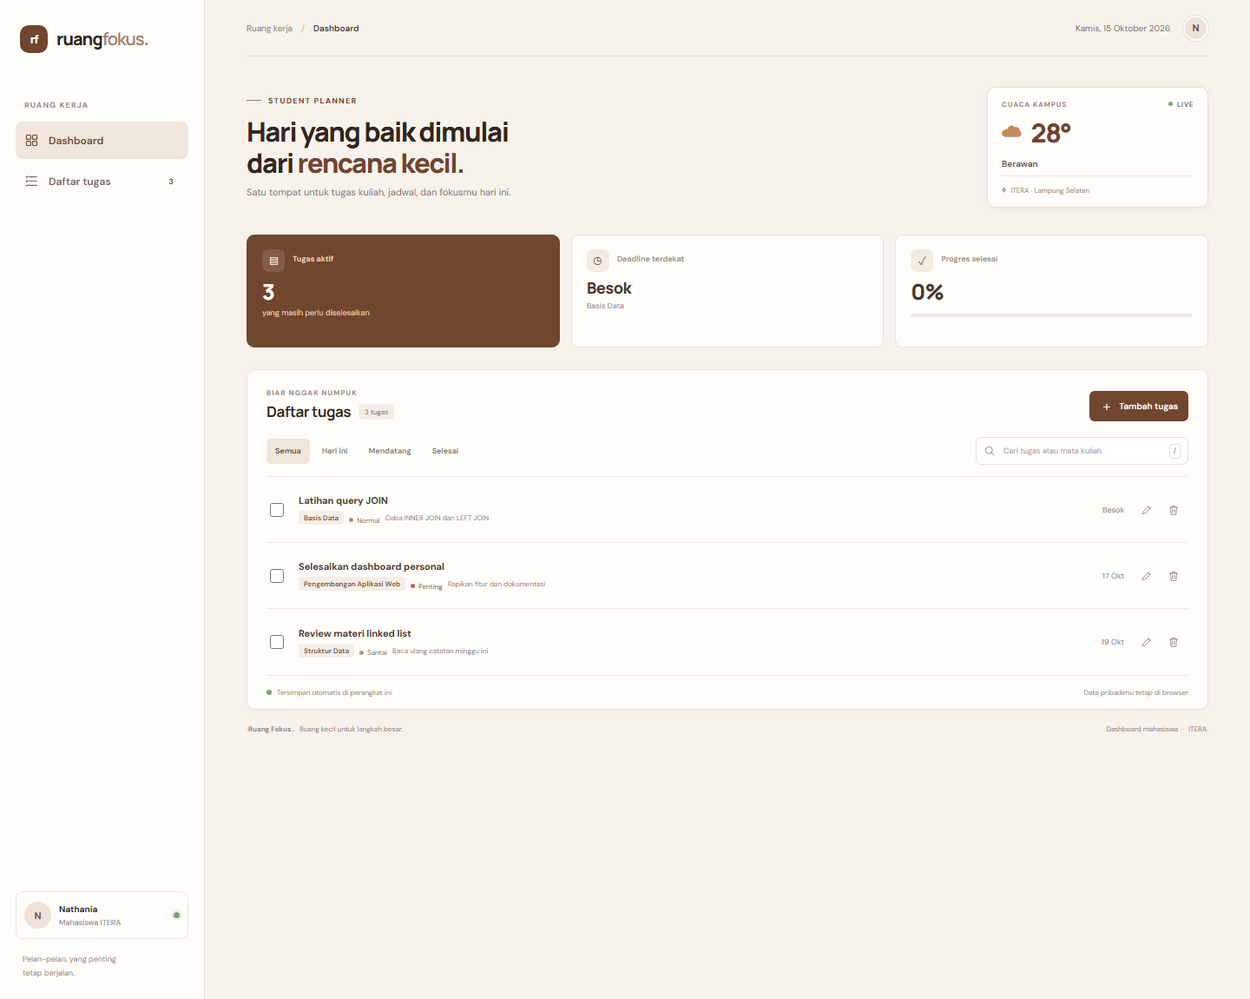
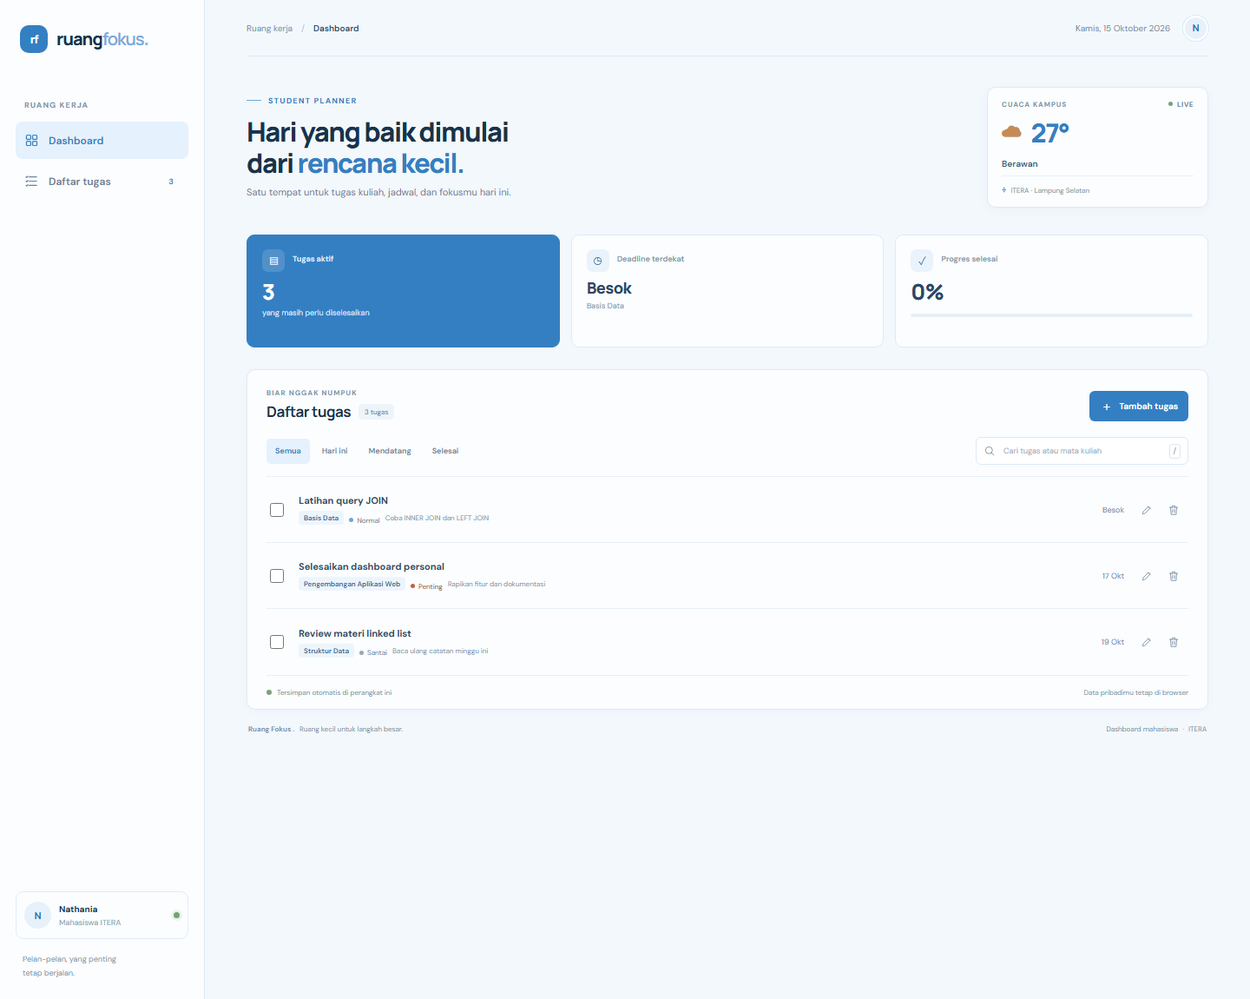
Switch dashboard to sky blue theme

diff --git a/nathaniahutapea_124140101_pertemuan2/style.css b/nathaniahutapea_124140101_pertemuan2/style.css
@@ -2,13 +2,13 @@
 
 :root {
   color-scheme: light;
-  --ink: #33251e;
-  --muted: #89776c;
-  --coffee: #70462f;
-  --coffee-dark: #543321;
-  --coffee-soft: #f1e6dc;
-  --paper: #f7f2ec;
-  --line: #e9ded3;
+  --ink: #19324b;
+  --muted: #71849a;
+  --coffee: #347fc2;
+  --coffee-dark: #205f99;
+  --coffee-soft: #e5f1fc;
+  --paper: #f3f8fd;
+  --line: #dceaf6;
   --red: #b94b40;
   font-family: 'DM Sans', sans-serif;
   font-synthesis: none;
@@ -23,143 +23,143 @@ button, input, select { font: inherit; }
 button { cursor: pointer; }
 a { color: inherit; text-decoration: none; }
 .app-layout { min-height: 100vh; }
-.sidebar { position: fixed; inset: 0 auto 0 0; z-index: 2; display: flex; width: 236px; flex-direction: column; padding: 29px 18px 22px; border-right: 1px solid #e9ded3; background: #fffdfa; }
+.sidebar { position: fixed; inset: 0 auto 0 0; z-index: 2; display: flex; width: 236px; flex-direction: column; padding: 29px 18px 22px; border-right: 1px solid #dceaf6; background: #fbfdff; }
 .brand { display: flex; align-items: center; gap: 10px; margin: 0 0 54px 5px; font: 800 20px/1 'Manrope', sans-serif; letter-spacing: -1px; }
-.brand-icon { display: grid; width: 32px; height: 32px; place-items: center; border-radius: 10px; background: var(--coffee); color: #fffaf4; font: 800 13px/1 'Manrope', sans-serif; letter-spacing: -1px; }
-.brand-light { color: #a68063; font-weight: 600; }
-.brand i, .page-footer i { color: #bd8758; font-style: normal; }
-.nav-caption, .section-kicker { color: #a08d80; font-size: 9px; font-weight: 700; letter-spacing: 1.15px; }
+.brand-icon { display: grid; width: 32px; height: 32px; place-items: center; border-radius: 10px; background: var(--coffee); color: #f8fcff; font: 800 13px/1 'Manrope', sans-serif; letter-spacing: -1px; }
+.brand-light { color: #78a9d8; font-weight: 600; }
+.brand i, .page-footer i { color: #73b8ee; font-style: normal; }
+.nav-caption, .section-kicker { color: #8096ab; font-size: 9px; font-weight: 700; letter-spacing: 1.15px; }
 .nav-caption { padding: 0 10px; margin-bottom: 11px; }
-.side-link { display: flex; min-height: 43px; align-items: center; gap: 11px; margin: 2px 0; padding: 0 10px; border-radius: 8px; color: #78695f; font-size: 12px; font-weight: 600; transition: .18s ease; }
-.side-link:hover { background: #f8f1e9; color: var(--coffee); }
-.side-link-active { background: #f1e6dc; color: var(--coffee); }
+.side-link { display: flex; min-height: 43px; align-items: center; gap: 11px; margin: 2px 0; padding: 0 10px; border-radius: 8px; color: #6f8194; font-size: 12px; font-weight: 600; transition: .18s ease; }
+.side-link:hover { background: #eff7fe; color: var(--coffee); }
+.side-link-active { background: #e5f1fc; color: var(--coffee); }
 .side-link svg { width: 17px; height: 17px; fill: none; stroke: currentColor; stroke-width: 1.7; stroke-linecap: round; stroke-linejoin: round; }
-.side-count { display: grid; min-width: 20px; height: 20px; place-items: center; margin-left: auto; padding: 0 5px; border-radius: 6px; background: #fffdfa; color: var(--coffee); font-size: 9px; }
+.side-count { display: grid; min-width: 20px; height: 20px; place-items: center; margin-left: auto; padding: 0 5px; border-radius: 6px; background: #fbfdff; color: var(--coffee); font-size: 9px; }
 .sidebar-bottom { margin-top: auto; }
-.student-card { display: flex; align-items: center; gap: 9px; padding: 11px 9px; border: 1px solid #eee3d9; border-radius: 9px; }
-.student-avatar, .top-avatar { display: grid; flex: 0 0 auto; place-items: center; border-radius: 50%; background: #efe2d6; color: #744a34; font-size: 11px; font-weight: 700; }
+.student-card { display: flex; align-items: center; gap: 9px; padding: 11px 9px; border: 1px solid #e1edf8; border-radius: 9px; }
+.student-avatar, .top-avatar { display: grid; flex: 0 0 auto; place-items: center; border-radius: 50%; background: #e7f1fb; color: #3473ab; font-size: 11px; font-weight: 700; }
 .student-avatar { width: 31px; height: 31px; }
 .student-card > span:nth-child(2) { display: grid; gap: 3px; }
 .student-card strong { font-size: 10px; }
-.student-card small { color: #938277; font-size: 9px; }
+.student-card small { color: #8a9eb1; font-size: 9px; }
 .online-dot { width: 7px; height: 7px; margin-left: auto; border-radius: 50%; background: #75a279; box-shadow: 0 0 0 3px #edf4eb; }
-.sidebar-bottom p { margin: 16px 8px 0; color: #a08e82; font-size: 9px; line-height: 1.7; }
+.sidebar-bottom p { margin: 16px 8px 0; color: #8298ad; font-size: 9px; line-height: 1.7; }
 .main-content { max-width: 1540px; min-height: 100vh; margin-left: 236px; padding: 0 48px 24px; }
-.topbar { display: flex; height: 65px; align-items: center; justify-content: space-between; border-bottom: 1px solid #e9ded3; }
-.breadcrumb { display: flex; align-items: center; gap: 10px; color: #968579; font-size: 10px; }
-.breadcrumb strong { color: #49382e; font-weight: 600; }
-.breadcrumb span:nth-child(2) { color: #c8b9ae; }
-.topbar-meta { display: flex; align-items: center; gap: 15px; color: #88776b; font-size: 10px; }
-.top-avatar { width: 29px; height: 29px; border: 2px solid #fff; box-shadow: 0 0 0 1px #e9ded3; }
+.topbar { display: flex; height: 65px; align-items: center; justify-content: space-between; border-bottom: 1px solid #dceaf6; }
+.breadcrumb { display: flex; align-items: center; gap: 10px; color: #8194a8; font-size: 10px; }
+.breadcrumb strong { color: #314d68; font-weight: 600; }
+.breadcrumb span:nth-child(2) { color: #b7cadb; }
+.topbar-meta { display: flex; align-items: center; gap: 15px; color: #7d91a5; font-size: 10px; }
+.top-avatar { width: 29px; height: 29px; border: 2px solid #fff; box-shadow: 0 0 0 1px #dceaf6; }
 .welcome-section { display: flex; min-height: 205px; align-items: center; justify-content: space-between; gap: 24px; padding: 23px 0 20px; }
 .eyebrow { display: flex; align-items: center; gap: 8px; margin: 0 0 11px; color: var(--coffee); font-size: 9px; font-weight: 700; letter-spacing: 1.25px; }
-.eyebrow span { width: 17px; height: 1px; background: #ac7955; }
+.eyebrow span { width: 17px; height: 1px; background: #6ba9dc; }
 h1, h2, p { margin-top: 0; }
 h1 { margin-bottom: 9px; font: 800 31px/1.17 'Manrope', sans-serif; letter-spacing: -1.4px; }
 h1 span { color: var(--coffee); }
-.welcome-subtitle { margin: 0; color: #89776c; font-size: 11px; }
-.weather-card { width: 255px; flex: 0 0 auto; padding: 14px 16px 13px; border: 1px solid #e9ded3; border-radius: 10px; background: #fffdfa; box-shadow: 0 3px 12px rgba(74, 48, 32, .035); }
+.welcome-subtitle { margin: 0; color: #71849a; font-size: 11px; }
+.weather-card { width: 255px; flex: 0 0 auto; padding: 14px 16px 13px; border: 1px solid #dceaf6; border-radius: 10px; background: #fbfdff; box-shadow: 0 3px 12px rgba(44, 98, 145, .045); }
 .weather-topline { display: flex; align-items: center; justify-content: space-between; }
-.weather-label { color: #9b887b; font-size: 8px; font-weight: 700; letter-spacing: 1px; }
-.weather-live { display: inline-flex; align-items: center; gap: 5px; color: #8e796b; font-size: 8px; font-weight: 700; letter-spacing: .5px; }
+.weather-label { color: #8297ab; font-size: 8px; font-weight: 700; letter-spacing: 1px; }
+.weather-live { display: inline-flex; align-items: center; gap: 5px; color: #748aa0; font-size: 8px; font-weight: 700; letter-spacing: .5px; }
 .weather-live i { width: 5px; height: 5px; border-radius: 50%; background: #75a279; }
 .weather-main { display: flex; height: 57px; align-items: center; gap: 11px; }
 .weather-icon { color: #c58b55; font-size: 26px; }
 .weather-main strong { color: var(--coffee); font: 800 30px/1 'Manrope', sans-serif; letter-spacing: -1.4px; }
-.weather-card > p { margin: 0 0 7px; color: #645249; font-size: 10px; font-weight: 600; }
-.weather-location { padding-top: 8px; border-top: 1px solid #f0e8e0; color: #a08e82; font-size: 8px; }
-.weather-location span { padding-right: 3px; color: #ad7954; font-size: 11px; }
+.weather-card > p { margin: 0 0 7px; color: #425d78; font-size: 10px; font-weight: 600; }
+.weather-location { padding-top: 8px; border-top: 1px solid #e8f0f8; color: #8499ad; font-size: 8px; }
+.weather-location span { padding-right: 3px; color: #5b9bd1; font-size: 11px; }
 .stats-grid { display: grid; grid-template-columns: repeat(3, minmax(0, 1fr)); gap: 13px; }
-.stat-card { position: relative; display: flex; min-height: 130px; flex-direction: column; align-items: flex-start; padding: 16px 17px 13px; border: 1px solid #ebe1d8; border-radius: 9px; background: #fffdfa; }
-.stat-card-primary { border-color: #71482f; background: var(--coffee); color: #fff9f3; }
-.stat-icon { display: grid; width: 26px; height: 26px; place-items: center; margin-bottom: 9px; border-radius: 7px; background: rgba(255, 250, 243, .13); color: #f8e8d8; font-size: 13px; }
-.stat-icon-soft { background: #f4ebe2; color: #8a6148; }
-.stat-label { position: absolute; top: 21px; left: 52px; color: #a08d80; font-size: 9px; font-weight: 600; }
-.stat-card-primary .stat-label { color: #e4d1bf; }
-.stat-card > strong { color: #49382e; font: 800 25px/1.1 'Manrope', sans-serif; letter-spacing: -.8px; }
-.stat-card-primary > strong { color: #fffaf4; }
+.stat-card { position: relative; display: flex; min-height: 130px; flex-direction: column; align-items: flex-start; padding: 16px 17px 13px; border: 1px solid #dfeaf4; border-radius: 9px; background: #fbfdff; }
+.stat-card-primary { border-color: #347fc2; background: var(--coffee); color: #f7fbff; }
+.stat-icon { display: grid; width: 26px; height: 26px; place-items: center; margin-bottom: 9px; border-radius: 7px; background: rgba(255, 255, 255, .14); color: #e4f2ff; font-size: 13px; }
+.stat-icon-soft { background: #eaf3fb; color: #4a82b3; }
+.stat-label { position: absolute; top: 21px; left: 52px; color: #8397aa; font-size: 9px; font-weight: 600; }
+.stat-card-primary .stat-label { color: #dceeff; }
+.stat-card > strong { color: #294866; font: 800 25px/1.1 'Manrope', sans-serif; letter-spacing: -.8px; }
+.stat-card-primary > strong { color: #fff; }
 .stat-card > strong.stat-deadline { font-size: 18px; letter-spacing: -.4px; }
-.stat-footnote { margin-top: 4px; color: #9a887c; font-size: 9px; }
-.stat-card-primary .stat-footnote { color: #e0ccba; }
-.progress-track { width: 100%; height: 4px; overflow: hidden; margin-top: 11px; border-radius: 99px; background: #f0e7df; }
-.progress-track span { display: block; width: 0; height: 100%; border-radius: inherit; background: #b78054; transition: width .25s ease; }
-.tasks-section { margin-top: 25px; padding: 21px 22px 0; border: 1px solid #ebe1d8; border-radius: 10px; background: #fffdfa; box-shadow: 0 2px 8px rgba(74, 48, 32, .025); }
+.stat-footnote { margin-top: 4px; color: #8296a9; font-size: 9px; }
+.stat-card-primary .stat-footnote { color: #d7eaff; }
+.progress-track { width: 100%; height: 4px; overflow: hidden; margin-top: 11px; border-radius: 99px; background: #e6f0f8; }
+.progress-track span { display: block; width: 0; height: 100%; border-radius: inherit; background: #69a9dc; transition: width .25s ease; }
+.tasks-section { margin-top: 25px; padding: 21px 22px 0; border: 1px solid #dfeaf4; border-radius: 10px; background: #fbfdff; box-shadow: 0 2px 8px rgba(44, 98, 145, .03); }
 .section-heading { display: flex; align-items: flex-end; justify-content: space-between; gap: 15px; }
 .section-kicker { margin-bottom: 6px; font-size: 8px; }
 .title-row { display: flex; align-items: center; gap: 9px; }
 h2 { margin: 0; font: 700 17px/1.3 'Manrope', sans-serif; letter-spacing: -.5px; }
-.task-total { padding: 4px 7px; border-radius: 5px; background: #f4ede5; color: #7d6d62; font-size: 8px; }
+.task-total { padding: 4px 7px; border-radius: 5px; background: #edf4fa; color: #6c8195; font-size: 8px; }
 .button { display: inline-flex; min-height: 35px; align-items: center; justify-content: center; gap: 7px; padding: 0 12px; border: 0; border-radius: 6px; font-size: 10px; font-weight: 600; transition: .18s ease; }
-.button-primary { background: var(--coffee); color: #fffaf4; }
-.button-primary:hover { background: var(--coffee-dark); box-shadow: 0 4px 12px rgba(84, 51, 33, .18); }
+.button-primary { background: var(--coffee); color: #fff; }
+.button-primary:hover { background: var(--coffee-dark); box-shadow: 0 4px 12px rgba(32, 95, 153, .2); }
 .button-primary > span { font-size: 15px; font-weight: 400; }
-.button:focus-visible, .icon-button:focus-visible, .filter-tab:focus-visible, .task-action:focus-visible { outline: 3px solid rgba(113, 72, 47, .22); outline-offset: 2px; }
-.task-toolbar { display: flex; align-items: center; justify-content: space-between; gap: 12px; padding: 18px 0 13px; border-bottom: 1px solid #f0e8e0; }
+.button:focus-visible, .icon-button:focus-visible, .filter-tab:focus-visible, .task-action:focus-visible { outline: 3px solid rgba(52, 127, 194, .24); outline-offset: 2px; }
+.task-toolbar { display: flex; align-items: center; justify-content: space-between; gap: 12px; padding: 18px 0 13px; border-bottom: 1px solid #e7eff7; }
 .filter-tabs { display: flex; flex-wrap: wrap; gap: 4px; }
-.filter-tab { min-height: 29px; padding: 0 10px; border: 0; border-radius: 5px; background: transparent; color: #89786d; font-size: 9px; font-weight: 600; }
-.filter-tab:hover { background: #f8f1e9; color: var(--coffee); }
-.filter-tab.is-active { background: #f1e6dc; color: var(--coffee); }
-.search-box { display: flex; width: min(245px, 38%); height: 32px; align-items: center; gap: 7px; padding: 0 8px; border: 1px solid #e9ded3; border-radius: 6px; background: #fff; }
-.search-box:focus-within { border-color: #ac7955; box-shadow: 0 0 0 3px rgba(113, 72, 47, .09); }
-.search-box svg { width: 14px; height: 14px; flex: 0 0 auto; fill: none; stroke: #99877b; stroke-width: 1.7; stroke-linecap: round; }
+.filter-tab { min-height: 29px; padding: 0 10px; border: 0; border-radius: 5px; background: transparent; color: #72869a; font-size: 9px; font-weight: 600; }
+.filter-tab:hover { background: #eff7fe; color: var(--coffee); }
+.filter-tab.is-active { background: #e5f1fc; color: var(--coffee); }
+.search-box { display: flex; width: min(245px, 38%); height: 32px; align-items: center; gap: 7px; padding: 0 8px; border: 1px solid #dceaf6; border-radius: 6px; background: #fff; }
+.search-box:focus-within { border-color: #6ba9dc; box-shadow: 0 0 0 3px rgba(52, 127, 194, .1); }
+.search-box svg { width: 14px; height: 14px; flex: 0 0 auto; fill: none; stroke: #8297ab; stroke-width: 1.7; stroke-linecap: round; }
 .search-box input { width: 100%; min-width: 0; border: 0; outline: 0; background: transparent; color: var(--ink); font-size: 9px; }
-.search-box input::placeholder { color: #afa198; }
-kbd { display: grid; width: 16px; height: 17px; place-items: center; border: 1px solid #e8ded4; border-radius: 3px; color: #a39489; font: 9px 'DM Sans', sans-serif; }
+.search-box input::placeholder { color: #9aafc2; }
+kbd { display: grid; width: 16px; height: 17px; place-items: center; border: 1px solid #dce8f3; border-radius: 3px; color: #8da0b2; font: 9px 'DM Sans', sans-serif; }
 .task-list { display: grid; gap: 0; }
-.task-card { display: grid; grid-template-columns: 21px minmax(0, 1fr) auto auto; align-items: center; gap: 12px; min-height: 76px; padding: 11px 4px; border-bottom: 1px solid #f0e8e0; }
+.task-card { display: grid; grid-template-columns: 21px minmax(0, 1fr) auto auto; align-items: center; gap: 12px; min-height: 76px; padding: 11px 4px; border-bottom: 1px solid #e7eff7; }
 .task-card:last-child { border-bottom: 0; }
 .task-check { width: 16px; height: 16px; margin: 0; accent-color: var(--coffee); cursor: pointer; }
 .task-main { min-width: 0; }
-.task-title { overflow: hidden; margin: 0 0 5px; color: #49382e; font-size: 11px; font-weight: 700; text-overflow: ellipsis; white-space: nowrap; }
-.task-card.is-complete .task-title { color: #a19287; text-decoration: line-through; }
-.task-meta { display: flex; flex-wrap: wrap; align-items: center; gap: 6px; color: #9b897d; font-size: 8px; }
-.course-tag { padding: 3px 6px; border-radius: 4px; background: #f5eee7; color: #77573f; font-weight: 600; }
+.task-title { overflow: hidden; margin: 0 0 5px; color: #314d68; font-size: 11px; font-weight: 700; text-overflow: ellipsis; white-space: nowrap; }
+.task-card.is-complete .task-title { color: #8da1b4; text-decoration: line-through; }
+.task-meta { display: flex; flex-wrap: wrap; align-items: center; gap: 6px; color: #8699ac; font-size: 8px; }
+.course-tag { padding: 3px 6px; border-radius: 4px; background: #edf5fc; color: #416f99; font-weight: 600; }
 .task-note { overflow: hidden; max-width: 240px; text-overflow: ellipsis; white-space: nowrap; }
-.task-due { min-width: 73px; text-align: right; color: #8d796c; font-size: 9px; }
+.task-due { min-width: 73px; text-align: right; color: #70869b; font-size: 9px; }
 .task-due.is-overdue { color: var(--red); font-weight: 700; }
-.task-due.is-today { color: #a86d38; font-weight: 700; }
-.priority-pill { display: inline-flex; align-items: center; gap: 4px; margin-top: 5px; color: #8a7464; font-size: 8px; }
-.priority-pill::before { width: 5px; height: 5px; border-radius: 50%; background: #c28d60; content: ''; }
+.task-due.is-today { color: #267cb9; font-weight: 700; }
+.priority-pill { display: inline-flex; align-items: center; gap: 4px; margin-top: 5px; color: #72869a; font-size: 8px; }
+.priority-pill::before { width: 5px; height: 5px; border-radius: 50%; background: #69a7d8; content: ''; }
 .priority-pill.priority-high { color: #a34d3d; }
 .priority-pill.priority-high::before { background: #c45e4d; }
-.priority-pill.priority-low::before { background: #a6a184; }
+.priority-pill.priority-low::before { background: #91a8bd; }
 .task-actions { display: flex; gap: 4px; }
-.task-action { display: grid; width: 27px; height: 27px; place-items: center; border: 1px solid transparent; border-radius: 5px; background: transparent; color: #9a8678; transition: .15s ease; }
-.task-action:hover { border-color: #eaded2; background: #f8f1e9; color: var(--coffee); }
+.task-action { display: grid; width: 27px; height: 27px; place-items: center; border: 1px solid transparent; border-radius: 5px; background: transparent; color: #8094a8; transition: .15s ease; }
+.task-action:hover { border-color: #dceaf6; background: #eff7fe; color: var(--coffee); }
 .task-action.delete:hover { border-color: #efd9d4; background: #fff5f3; color: #a84137; }
 .task-action svg { width: 14px; height: 14px; fill: none; stroke: currentColor; stroke-width: 1.6; stroke-linecap: round; stroke-linejoin: round; }
-.empty-state { display: flex; min-height: 210px; flex-direction: column; align-items: center; justify-content: center; gap: 6px; color: #9b897d; font-size: 10px; text-align: center; }
+.empty-state { display: flex; min-height: 210px; flex-direction: column; align-items: center; justify-content: center; gap: 6px; color: #879aae; font-size: 10px; text-align: center; }
 .empty-state[hidden] { display: none; }
-.empty-icon { display: grid; width: 38px; height: 38px; place-items: center; margin-bottom: 3px; border-radius: 11px; background: #f5ece2; color: #9d704f; font-size: 19px; }
-.empty-state strong { color: #5b473a; font-size: 11px; }
+.empty-icon { display: grid; width: 38px; height: 38px; place-items: center; margin-bottom: 3px; border-radius: 11px; background: #eaf3fb; color: #4d8abb; font-size: 19px; }
+.empty-state strong { color: #3f5b76; font-size: 11px; }
 .text-button { margin-top: 4px; padding: 5px 8px; border: 0; background: transparent; color: var(--coffee); font-size: 9px; font-weight: 700; }
 .text-button span { padding-left: 3px; }
-.tasks-footer { display: flex; min-height: 39px; align-items: center; justify-content: space-between; gap: 10px; border-top: 1px solid #f0e8e0; color: #a08e82; font-size: 8px; }
+.tasks-footer { display: flex; min-height: 39px; align-items: center; justify-content: space-between; gap: 10px; border-top: 1px solid #e7eff7; color: #8297aa; font-size: 8px; }
 .tasks-footer > span:first-child { display: flex; align-items: center; gap: 6px; }
 .tasks-footer i { width: 6px; height: 6px; border-radius: 50%; background: #7ca17a; }
-.page-footer { display: flex; justify-content: space-between; gap: 12px; padding: 17px 2px 0; color: #978579; font-size: 8px; }
+.page-footer { display: flex; justify-content: space-between; gap: 12px; padding: 17px 2px 0; color: #8296aa; font-size: 8px; }
 .page-footer > span:first-child { font-weight: 700; }
 .page-footer > span:first-child > span { padding-left: 4px; font-weight: 400; }
-.page-footer b { padding: 0 3px; color: #c3aa96; font-weight: 400; }
-.task-dialog { width: min(510px, calc(100vw - 32px)); padding: 0; overflow: visible; border: 1px solid #e9ded3; border-radius: 12px; background: #fffdfa; color: var(--ink); box-shadow: 0 20px 70px rgba(48, 31, 20, .2); }
-.task-dialog::backdrop { background: rgba(43, 30, 23, .42); backdrop-filter: blur(3px); }
+.page-footer b { padding: 0 3px; color: #a8c4dc; font-weight: 400; }
+.task-dialog { width: min(510px, calc(100vw - 32px)); padding: 0; overflow: visible; border: 1px solid #dceaf6; border-radius: 12px; background: #fbfdff; color: var(--ink); box-shadow: 0 20px 70px rgba(32, 75, 113, .2); }
+.task-dialog::backdrop { background: rgba(28, 54, 79, .42); backdrop-filter: blur(3px); }
 .task-form { padding: 24px; }
 .dialog-topline { display: flex; align-items: flex-start; justify-content: space-between; margin-bottom: 20px; }
 .dialog-topline .section-kicker { margin-bottom: 5px; }
 .dialog-topline h2 { font-size: 19px; }
-.icon-button { display: grid; width: 29px; height: 29px; place-items: center; border: 1px solid #eee3d9; border-radius: 7px; background: #fffdfa; color: #836f60; font-size: 20px; line-height: 1; }
-.icon-button:hover { background: #f7efe7; }
-.form-field { display: block; min-width: 0; margin-bottom: 14px; color: #5d493d; font-size: 10px; font-weight: 600; }
+.icon-button { display: grid; width: 29px; height: 29px; place-items: center; border: 1px solid #e1edf8; border-radius: 7px; background: #fbfdff; color: #6f879d; font-size: 20px; line-height: 1; }
+.icon-button:hover { background: #eff7fe; }
+.form-field { display: block; min-width: 0; margin-bottom: 14px; color: #405b75; font-size: 10px; font-weight: 600; }
 .form-field > span { color: #ba5749; }
-.form-field input, .form-field select { display: block; width: 100%; height: 38px; margin-top: 6px; padding: 0 10px; border: 1px solid #e7dcd1; border-radius: 6px; outline: 0; background: #fff; color: #45362c; font-size: 10px; }
-.form-field input:focus, .form-field select:focus { border-color: #a77756; box-shadow: 0 0 0 3px rgba(113, 72, 47, .1); }
-.form-field input::placeholder { color: #b1a198; }
+.form-field input, .form-field select { display: block; width: 100%; height: 38px; margin-top: 6px; padding: 0 10px; border: 1px solid #dce8f3; border-radius: 6px; outline: 0; background: #fff; color: #344f6a; font-size: 10px; }
+.form-field input:focus, .form-field select:focus { border-color: #6ba9dc; box-shadow: 0 0 0 3px rgba(52, 127, 194, .11); }
+.form-field input::placeholder { color: #9eafbf; }
 .form-row { display: grid; grid-template-columns: 1fr 1fr; gap: 12px; }
 .form-error { min-height: 13px; margin: -3px 0 5px; color: var(--red); font-size: 9px; }
 .dialog-actions { display: flex; justify-content: flex-end; gap: 8px; margin-top: 8px; }
-.button-quiet { border: 1px solid #e9ded3; background: #fffdfa; color: #78685e; }
-.button-quiet:hover { background: #f8f1e9; }
-.toast { position: fixed; right: 22px; bottom: 20px; z-index: 5; padding: 11px 14px; border: 1px solid #e7d8c8; border-radius: 8px; background: #fffdfa; color: #65432f; box-shadow: 0 6px 25px rgba(75, 48, 31, .12); font-size: 10px; opacity: 0; pointer-events: none; transform: translateY(8px); transition: .2s ease; }
+.button-quiet { border: 1px solid #dceaf6; background: #fbfdff; color: #6d8195; }
+.button-quiet:hover { background: #eff7fe; }
+.toast { position: fixed; right: 22px; bottom: 20px; z-index: 5; padding: 11px 14px; border: 1px solid #d6e8f6; border-radius: 8px; background: #fbfdff; color: #315f88; box-shadow: 0 6px 25px rgba(44, 98, 145, .12); font-size: 10px; opacity: 0; pointer-events: none; transform: translateY(8px); transition: .2s ease; }
 .toast.is-visible { opacity: 1; transform: translateY(0); }
 
 @media (max-width: 1100px) {
@@ -169,7 +169,7 @@ kbd { display: grid; width: 16px; height: 17px; place-items: center; border: 1px
   .task-card { grid-template-columns: 21px minmax(0, 1fr) auto auto; gap: 8px; }
 }
 @media (max-width: 820px) {
-  .sidebar { position: static; width: auto; height: 57px; flex-direction: row; align-items: center; justify-content: space-between; padding: 0 20px; border-right: 0; border-bottom: 1px solid #e9ded3; }
+  .sidebar { position: static; width: auto; height: 57px; flex-direction: row; align-items: center; justify-content: space-between; padding: 0 20px; border-right: 0; border-bottom: 1px solid #dceaf6; }
   .brand { margin: 0; }
   .nav-caption, .sidebar-bottom, .side-link:not(.side-link-active) { display: none; }
   .side-link-active { min-height: 34px; margin-left: auto; }

diff --git a/nathaniahutapea_124140101_pertemuan2/index.html b/nathaniahutapea_124140101_pertemuan2/index.html
@@ -3,7 +3,7 @@
   <head>
     <meta charset="UTF-8" />
     <meta name="viewport" content="width=device-width, initial-scale=1.0" />
-    <meta name="theme-color" content="#f7f2ec" />
+    <meta name="theme-color" content="#f3f8fd" />
     <meta name="description" content="Dashboard mahasiswa untuk merapikan tugas kuliah dan memantau cuaca kampus ITERA." />
     <title>Ruang Fokus — Dashboard Mahasiswa</title>
     <link rel="preconnect" href="https://fonts.googleapis.com" />

diff --git a/nathaniahutapea_124140101_pertemuan2/README.md b/nathaniahutapea_124140101_pertemuan2/README.md
@@ -19,7 +19,7 @@ Ruang Fokus adalah dashboard ringan untuk membantu mahasiswa ITERA mengatur tuga
 - [x] Pencarian berdasarkan judul, mata kuliah, atau catatan; tekan `/` untuk fokus ke kolom pencarian.
 - [x] Penyimpanan otomatis menggunakan `localStorage`, termasuk tugas contoh saat pertama kali dibuka.
 - [x] Cuaca real-time kampus ITERA melalui Open-Meteo, tanpa API key; tersedia pesan fallback bila koneksi gagal.
-- [x] Layout responsif dan feedback toast untuk aksi pengguna.
+- [x] Layout responsif bertema biru langit dan feedback toast untuk aksi pengguna.
 
 ## Cara menjalankan
 
